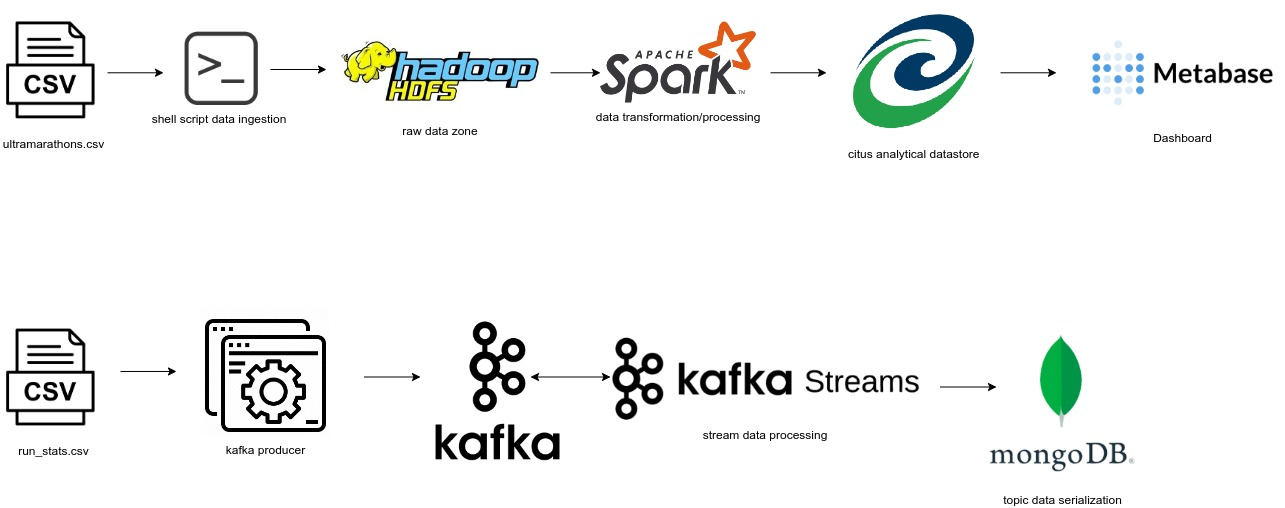
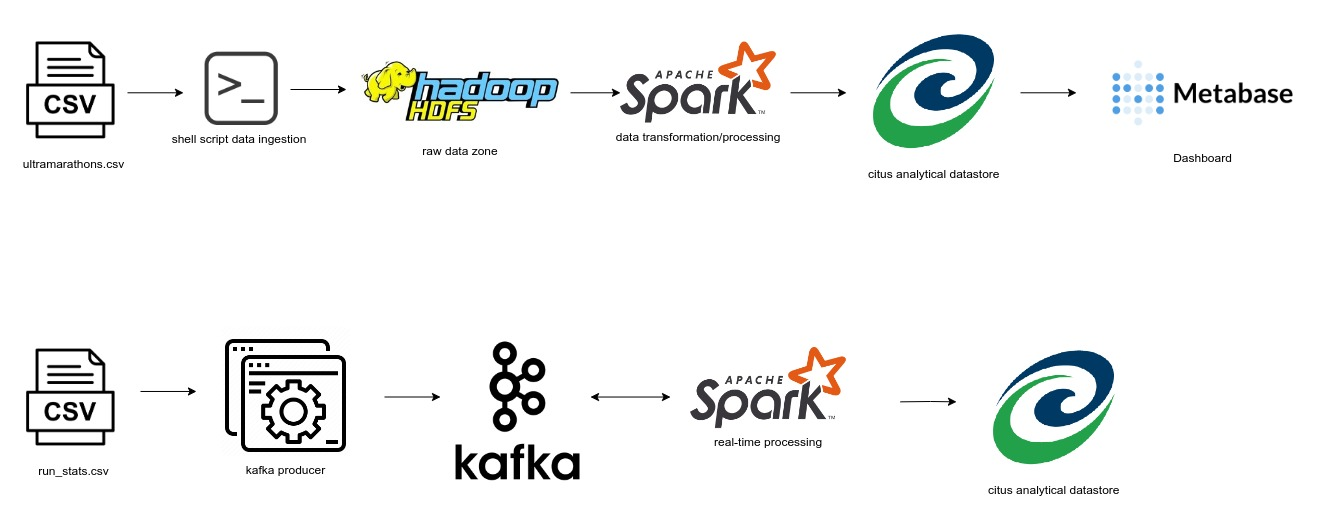
Updated readme

diff --git a/README.md b/README.md
@@ -1,4 +1,20 @@
 # Running analysis
 
-- Aleksandar Stojanović E2119/2023
-- Projekat iz predmeta Arhitekture sistema velikih skupova podataka
+## About
+- Analysis of dataset of ultramarathon races spanning from 1798. to 2022. 
+- Real time tracking of runners performance, that also incorporates information extracted from batch dataset
+- Used datasets: 
+    - batch: https://www.kaggle.com/datasets/aiaiaidavid/the-big-dataset-of-ultra-marathon-running?select=TWO_CENTURIES_OF_UM_RACES.csv
+    - stream: https://data.world/jarnoma/half-marathon
+
+## Infrastructure
+
+![Architecture](docs/architecture.jpg)
+- Raw batch data is stored on HDFS, processed with pyspark and stored inside Citus analytical database. Results are displayed using Metabase.
+
+
+## Running application
+
+- Starting batch processing: run script `/batch/execute_batch.sh`
+- Starting stream producer: run command ` go run /stream/producer_consumer/producer`
+- Starting stream processing: run script `/stream/start_all.sh`
